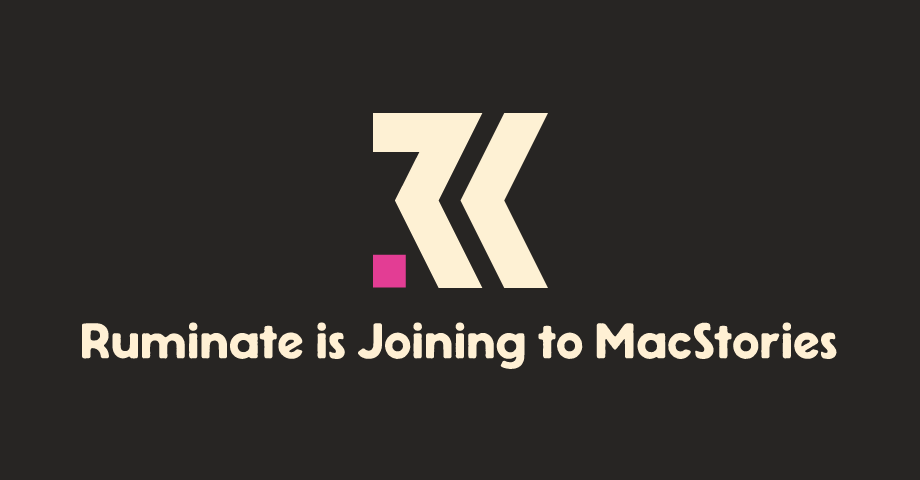
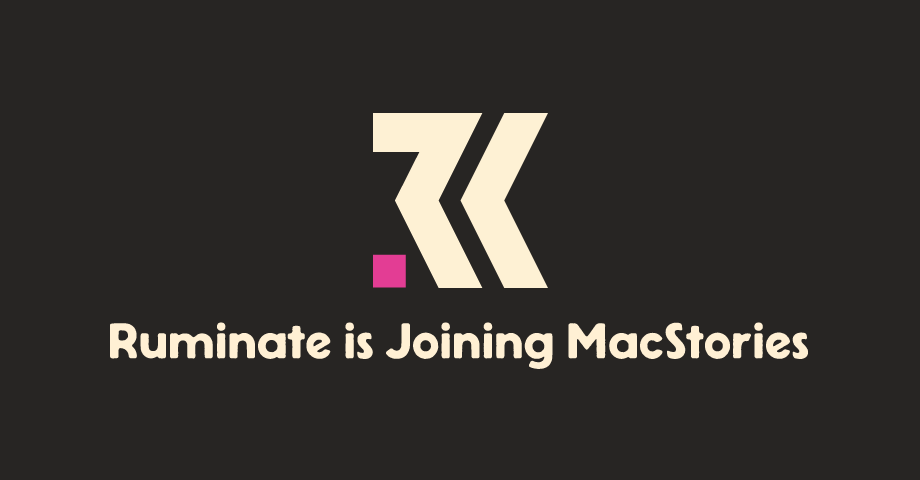
Fix the title

Changed region(s): [[0.0913, 0.6562, 0.913, 0.7812]]

diff --git a/src/posts/blog/2024/2024-03-19-ruminate-is-joining-to-macstories.md b/src/posts/blog/2024/2024-03-19-ruminate-is-joining-to-macstories.md
@@ -1,5 +1,5 @@
 ---
-title: "Ruminate is Joining to MacStories"
+title: "Ruminate is Joining MacStories"
 permalink: /blog/ruminate-is-joining-to-macstories/index.html
 date: 2024-03-19T14:00:00.000Z
 excerpt: "As of episode 180, Ruminate is part of MacStories"
